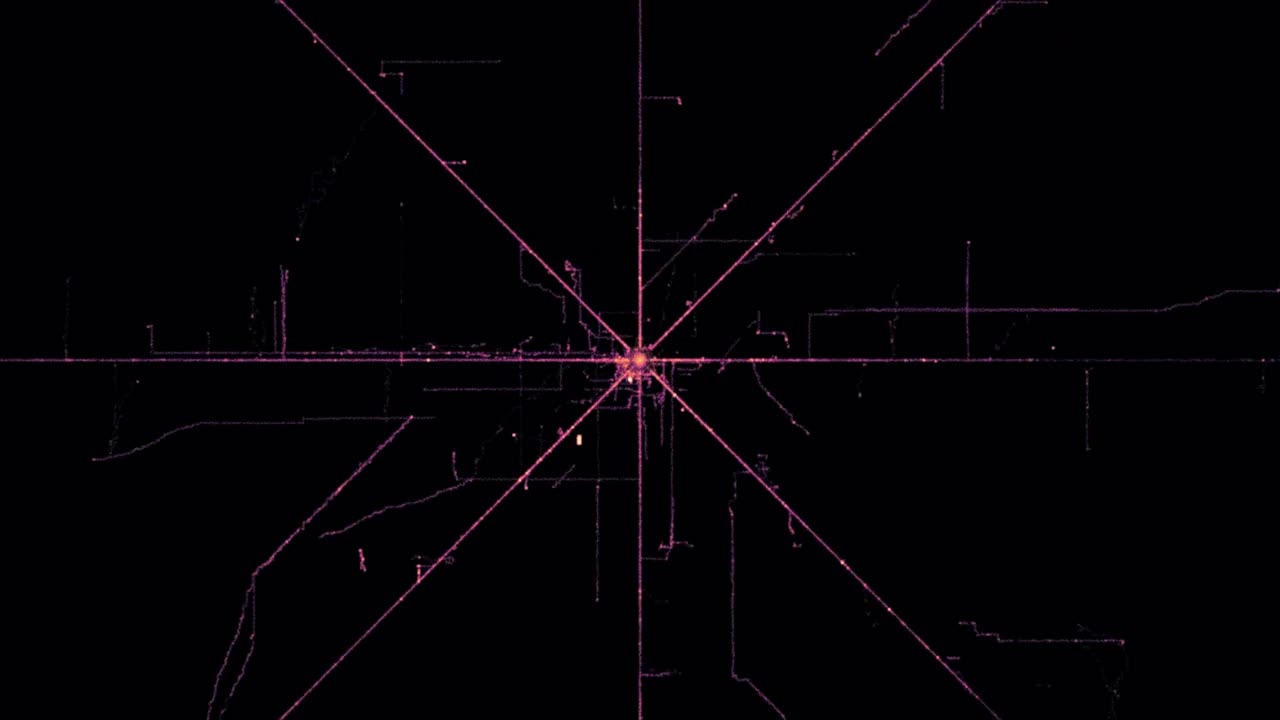
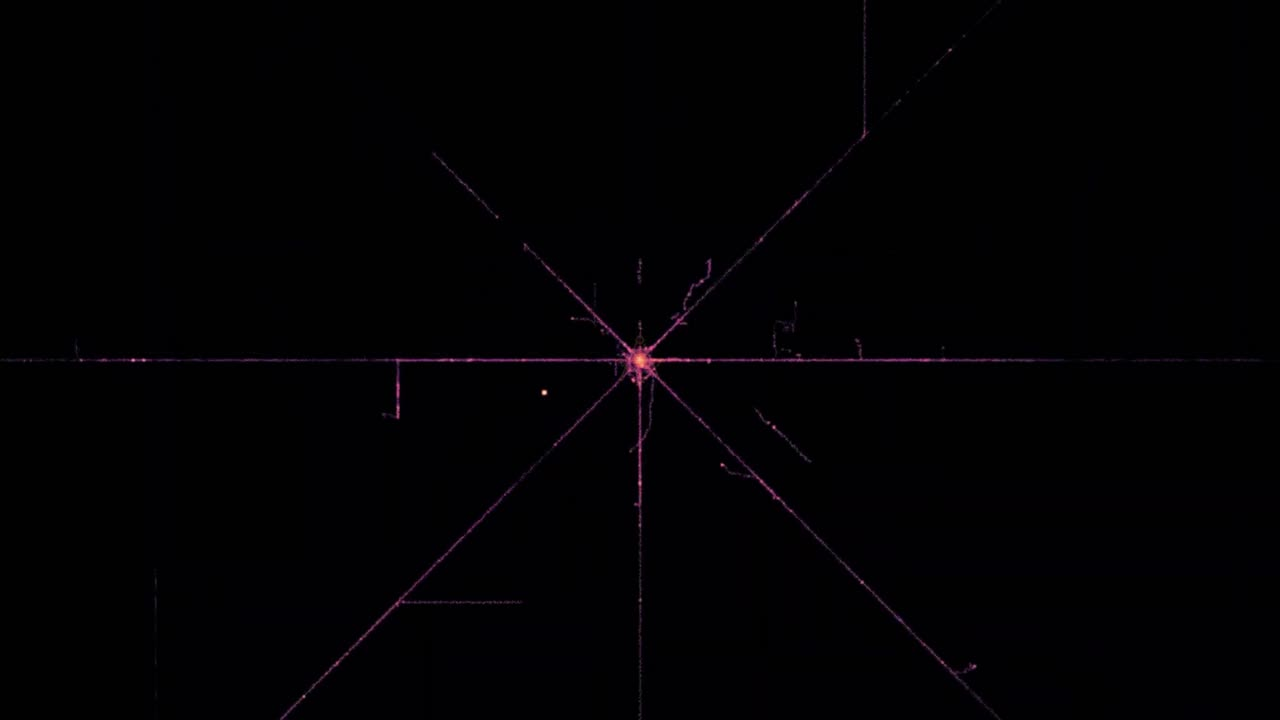
Refine device layout and launch media

diff --git a/web/style.css b/web/style.css
@@ -112,15 +112,17 @@ button:focus-visible, input:focus-visible, select:focus-visible { outline: 3px s
 .step-actions button { width: 44px; padding: 0; }
 .empty-state { padding: 28px; border: 1px dashed var(--border-strong); border-radius: 18px; color: var(--muted); text-align: center; }
 
-.credential-once { display: grid; gap: 10px; margin-bottom: 16px; padding: 18px; border-color: rgba(170, 167, 255, .42); }
+.device-sections { display: grid; gap: 18px; }
+.credential-once { display: grid; gap: 10px; padding: 18px; border-color: rgba(170, 167, 255, .42); }
 .credential-once code { max-width: 100%; padding: 12px; overflow-wrap: anywhere; border-radius: 10px; background: #05060a; color: var(--text); user-select: all; }
 .credential-once small, .device-card small, .session-health small { color: var(--muted); }
 .check-row { display: flex; align-items: center; gap: 10px; font-weight: 500; }
 .check-row input { width: 20px; min-height: 20px; accent-color: var(--accent); }
 .form-panel fieldset { display: grid; gap: 8px; margin: 0; padding: 14px; border: 1px solid var(--border); border-radius: 14px; }
 .form-panel legend { padding: 0 6px; color: var(--muted); }
+.device-card > div:first-child { display: grid; gap: 6px; }
 .device-card > div:last-child { flex-wrap: wrap; justify-content: flex-end; }
-.session-health { gap: 6px; margin-bottom: 16px; padding: 18px; }
+.session-health { gap: 6px; padding: 18px; }
 
 dialog { width: min(calc(100% - 28px), 460px); max-height: calc(100dvh - var(--safe-top) - var(--safe-bottom) - 20px); overflow: auto; padding: 0; border: 1px solid var(--border-strong); border-radius: 22px; background: var(--surface); color: var(--text); box-shadow: 0 28px 80px rgba(0, 0, 0, .78); }
 dialog::backdrop { background: rgba(0, 0, 0, .7); -webkit-backdrop-filter: blur(7px); backdrop-filter: blur(7px); }
@@ -180,8 +182,10 @@ dialog::backdrop { background: rgba(0, 0, 0, .7); -webkit-backdrop-filter: blur(
   .step-actions { justify-content: flex-end; }
   .sequence-toolbar { justify-content: stretch; }
   .sequence-toolbar button { width: 100%; }
-  .device-card > div:last-child { display: grid; grid-template-columns: 1fr 1fr; width: 100%; }
-  .device-card button { width: 100%; }
+  .device-card { flex-direction: column; width: 100%; }
+  .device-card > div:first-child { width: 100%; }
+  .device-card > div:last-child { display: grid; grid-template-columns: repeat(2, minmax(0, 1fr)); width: 100%; }
+  .device-card button { display: flex; width: 100%; align-items: center; justify-content: center; padding-inline: 8px; font-size: .78rem; line-height: 1.1; white-space: nowrap; }
   dialog { width: 100%; max-width: none; margin: auto 0 0; padding-bottom: var(--safe-bottom); border-bottom: 0; border-radius: 22px 22px 0 0; }
   #delete-form { padding: 26px 22px; }
 }

diff --git a/web/app.js b/web/app.js
@@ -67,7 +67,7 @@ function devicesView(){
   const ownerStatus=ownerSession?`<aside class="panel session-health"><strong>Shared BRP session</strong><small>${escapeHtml(deviceSessionLine(ownerSession))}</small></aside>`:'';
   const renewal=ownerSession?.scheduledReauthEnabled?`<section class="panel form-panel"><strong>Automatic renewal enabled</strong><small>Next full login: ${ownerSession.nextReauthAt?new Date(ownerSession.nextReauthAt).toLocaleString():'pending'}. Credentials are encrypted server-side.</small><button type="button" id="disable-scheduled-reauth" class="danger">Disable automatic renewal</button><p id="result" class="result" role="status" aria-live="polite"></p></section>`:`<form id="scheduled-reauth-form" class="panel form-panel"><strong>Automatic renewal</strong><small>Opt in to an encrypted server-side full login at most every three days.</small><label>Email<input name="username" type="email" autocomplete="username" required></label><label>Password<input name="password" type="password" autocomplete="current-password" required></label><button class="primary" type="submit">Enable automatic renewal</button><p id="result" class="result" role="status" aria-live="polite"></p></form>`;
   const cards=devices.map(device=>`<article class="sequence-card device-card"><div><strong>${escapeHtml(device.name)}</strong><p>${device.revokedAt?'Revoked':`${device.expiresAt?`Expires ${new Date(device.expiresAt).toLocaleDateString()}`:'Never expires'} · ${device.lastUsedAt?`last used ${new Date(device.lastUsedAt).toLocaleString()}`:'never used'}`}</p><small>${escapeHtml(deviceSessionLine(device))}</small><small>${device.targets.length?device.targets.map(target=>escapeHtml(target.name)).join(', '):'All saved targets'}</small></div><div><button type="button" data-rename-device="${device.id}">Rename</button><button type="button" data-reauthorize-device="${device.id}">Reauthorize</button><button type="button" data-rotate-device="${device.id}">Rotate</button><button type="button" class="danger" data-revoke-device="${device.id}">Revoke</button></div></article>`).join('');
-  return `${credential}${ownerStatus}${renewal}<form id="device-form" class="panel form-panel"><label>Device name<input name="name" value="My iPhone" maxlength="40" required></label><label>Expires after<select name="expiresInDays"><option value="30">30 days</option><option value="60">60 days</option><option value="90">90 days</option><option value="never">Never (credential only)</option></select></label><fieldset><legend>Allowed targets (none means all)</legend>${allowlist||'<p>No targets saved.</p>'}</fieldset><button class="primary" type="submit">Create device credential</button><p id="result" class="result"></p></form><div class="sequence-list">${cards||'<p class="empty-state">No device credentials.</p>'}</div>`;
+  return `<div class="device-sections">${credential}${ownerStatus}${renewal}<form id="device-form" class="panel form-panel"><label>Device name<input name="name" value="My iPhone" maxlength="40" required></label><label>Expires after<select name="expiresInDays"><option value="30">30 days</option><option value="60">60 days</option><option value="90">90 days</option><option value="never">Never (credential only)</option></select></label><fieldset><legend>Allowed targets (none means all)</legend>${allowlist||'<p>No targets saved.</p>'}</fieldset><button class="primary" type="submit">Create device credential</button><p id="result" class="result"></p></form><div class="sequence-list">${cards||'<p class="empty-state">No device credentials.</p>'}</div></div>`;
 }
 
 function appView(){const errorLine=loadError?`<p class="result error">${escapeHtml(loadError)}</p>`:'';if(activeTab==='open')return errorLine+openView();if(activeTab==='create')return errorLine+createDoorView();if(activeTab==='sequences')return errorLine+sequencesView();return errorLine+devicesView()}

diff --git a/web/sw.js b/web/sw.js
@@ -1,4 +1,4 @@
-const CACHE='no-comment-stc-v17';
+const CACHE='no-comment-stc-v18';
 const SHELL=['/','/index.html','/style.css','/app.js','/site.webmanifest','/icon-192.png','/icon-512.png','/icon-maskable-192.png','/icon-maskable-512.png','/apple-touch-icon.png','/media/launch-poster.jpg'];
 self.addEventListener('install',event=>event.waitUntil(caches.open(CACHE).then(cache=>cache.addAll(SHELL)).then(()=>self.skipWaiting())));
 self.addEventListener('activate',event=>event.waitUntil(caches.keys().then(keys=>Promise.all(keys.filter(key=>key!==CACHE).map(key=>caches.delete(key)))).then(()=>self.clients.claim())));